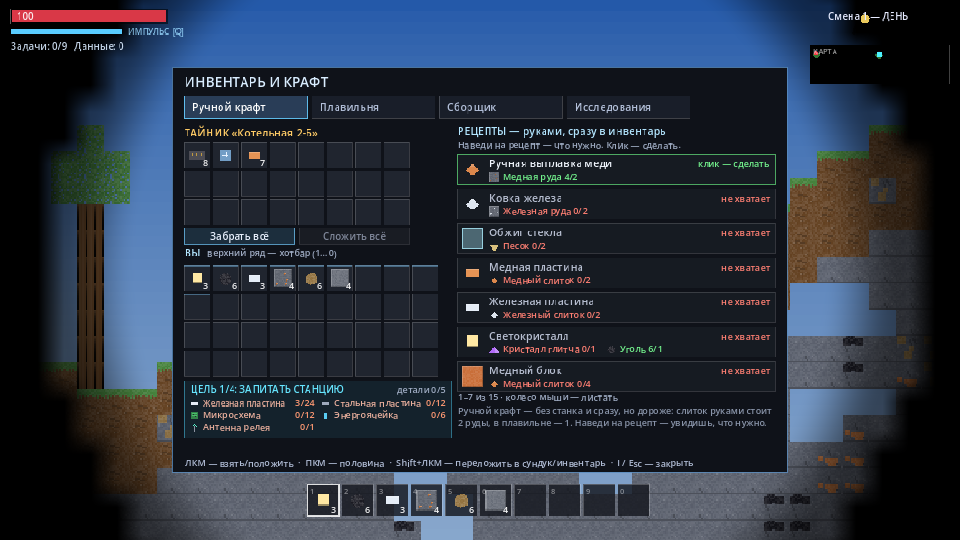
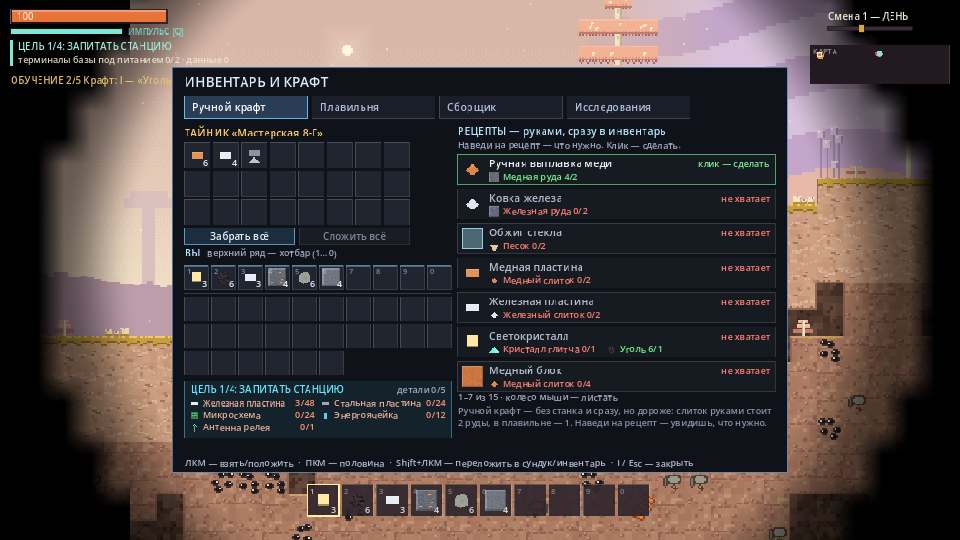
Телефон: кнопка переклички G в сети; инвентарь: верхний ряд — 10 ячеек хотбара (#135)
TouchControls: кнопка G только в сети с товарищами, ввод — тем же швом touch_input;
правая колонка встаёт под плашку команды (HUD.team_plate_rect), Q, V и G — одним рядом.
InventoryPanel: сетка 10 колонок (шаг 36), хотбар — верхний ряд с номерами клавиш,
рюкзак ниже за чертой. Проверки: touch_controls (в одиночной G нет), mp_doppel (Борис
начинает перекличку тапом по G). Скриншоты: touch_controls (сеть), inventory_after_*.

diff --git a/tools/README_TESTS.md b/tools/README_TESTS.md
@@ -431,10 +431,13 @@ godot --headless --path . --script res://tools/save_test.gd
   тап по пустой клетке ничего не ставит, долгий (≥ 0,4 с) — ставит камень; режим «строить» —
   короткий тап ставит; I/J открывают и закрывают окна, тап по миру при открытом окне не
   копает, тап по ячейке инвентаря (ЛКМ с `device` эмуляции) берёт стопку в руку и кладёт
-  обратно, палец листает рецепты. В конце мышь отпущена, шов пуст.
+  обратно, палец листает рецепты. В одиночной игре кнопки переклички G нет (#135): не жмётся,
+  колонка под миникартой на прежнем месте. В конце мышь отпущена, шов пуст.
+  В сети кнопку G проверяет `mp_doppel`: Борис (c1) начинает перекличку тапом по G.
 
-Скриншот раскладки (`docs/img/touch_controls.png`) — `tools/touch_shot.gd`, окно за экраном:
-`godot --path . --audio-driver Dummy --windowed --position -10000,-10000 --resolution 1280x720 --script res://tools/touch_shot.gd -- --touch --seed=31337`.
+Скриншот раскладки (`docs/img/touch_controls.png`) — `tools/touch_shot.gd`, окно за экраном;
+с `--net` — сетевая раскладка (сессия хоста на 127.0.0.1, три товарища-прокси, идёт перекличка):
+`godot --path . --audio-driver Dummy --windowed --position -10000,-10000 --resolution 1280x720 --script res://tools/touch_shot.gd -- --touch --net --seed=31337`.
 ### HUD и обучение (#34, ADR-001 § 4.1, 4.3, 4.7)
 
 Сценарии (`-- --scenario=hud_tracker,hud_tutorial,hud_hints,hud_no_alloc`), всё — по
@@ -748,7 +751,7 @@ godot --headless --path . -- --mp-scenario=all --seed=31337        # как в C
 | `mp_relay_coop` | MP-I (#94): у Ани половина `relay_req`, у Бориса остальное; Аня держит E у ядра — вклад из её инвентаря, у всех тот же `Game.relay_have` (`COOP RELAY`), отсчёт не пошёл; Борис доложил — отсчёт пошёл. Все дальше 12 клеток от ядра — отсчёт стоит (не сброшен) у хоста и клиентов, «Сигнал без присмотра»; Борис вернулся — идёт |
 | `mp_save_rejoin` | MP-I (#94): хост + 3 клиента, у каждого своё место, HP, метка; F5 хоста — файл версии 2 (`session`, `players` по uid — все 4, раздел `player`); у клиента F5 — «сохраняет хост», F9 в сети выключена у всех; все вышли — герои в `Net.parked`; `Save.load_net` — в парковке герои из файла; Аня входит снова — место, HP и метка из сохранения, стартового набора второй раз нет. Замер: размер сохранения с 4 игроками, КБ; сохранение и загрузка в сети, мс |
 | `mp_disconnect` | MP-I (#94): процесс Ани убит (обрыв) — по таймауту ENet прокси убран, герой в `Net.parked` (место, HP, инвентарь), мешка нет, жив; тот же uid вернулся — всё как было у хоста и у клиента (OWN, INV, поправка). Замер: обрыв замечен через, с. Повторный вход — тот же клиент запускается ещё раз (`mp_coop_base.gd`, флаг `--mp94-rejoin`) |
-| `mp_doppel` | MP-J (#95): хост + 3 клиента (4 игрока, один двойник). Аня (c0) отбилась на 40 клеток, хост, Борис, Вера — у базы. Хост: жертва двойника — самый отбившийся (Аня), маска — товарищ дальше всех от неё (Борис): ник и `Look` у двойника, над ним тот же `NickTag`; у клиентов — марионетка двойника с ником и видом Бориса (`TEAM.MASK`). Миникарта у каждого: маячок товарища ровно по правилу § 4.7 (≤ 20 клеток или зона питания), двойника на карте нет. Перекличка: Борис жмёт G (шов прокси) — у всех «Борис: перекличка!», кулдаун 20 с; хост, Аня, Вера отвечают G — огоньки всех героев зелёные (свой — событием, товарищи — `PF_ROLLCALL`), у двойника в маске Бориса — красный; повтор G после переклички — «Перекличка — через N с». Удар по своему (клиент → хост, хост → клиент): урона нет, «клац» в точке, кулдаун удара 1 с. Аня бьёт двойника: урон, «глюк» 1.5 с у хоста и клиентов (`TEAM.REVEAL`), всплеск `GlitchFx` у Ани. Замер (Вера): HUD мкс/кадр с разделом команды и без него, узлы и объекты за 10 с |
+| `mp_doppel` | MP-J (#95): хост + 3 клиента (4 игрока, один двойник). Аня (c0) отбилась на 40 клеток, хост, Борис, Вера — у базы. Хост: жертва двойника — самый отбившийся (Аня), маска — товарищ дальше всех от неё (Борис): ник и `Look` у двойника, над ним тот же `NickTag`; у клиентов — марионетка двойника с ником и видом Бориса (`TEAM.MASK`). Миникарта у каждого: маячок товарища ровно по правилу § 4.7 (≤ 20 клеток или зона питания), двойника на карте нет. Перекличка: Борис тапает G на сенсорной раскладке (#135: касание → `TouchControls` → шов → счётчик нажатий пакета ввода; кнопка G в ряду Q/V, кнопки не налезают на миникарту и плашку команды) — у всех «Борис: перекличка!», кулдаун 20 с; хост, Аня, Вера отвечают G — огоньки всех героев зелёные (свой — событием, товарищи — `PF_ROLLCALL`), у двойника в маске Бориса — красный; повтор G после переклички — «Перекличка — через N с». Удар по своему (клиент → хост, хост → клиент): урона нет, «клац» в точке, кулдаун удара 1 с. Аня бьёт двойника: урон, «глюк» 1.5 с у хоста и клиентов (`TEAM.REVEAL`), всплеск `GlitchFx` у Ани. Замер (Вера): HUD мкс/кадр с разделом команды и без него, узлы и объекты за 10 с |
 
 Обмен данными между процессами сценария (план, траектории для замера) — файлы
 `user://mp_share/<порт>_<ключ>.bin` (`mp/scenarios/mp_players_base.gd`), хост стирает их

diff --git a/README.md b/README.md
@@ -176,7 +176,7 @@ godot --headless --path C:\PROJECT\GODOTTEST -- --test --seed=12345
 мышь жмёт кнопки как палец, а клавиатура и мышь работают как обычно:
 `godot --path . -- --touch`.
 
-![Раскладка сенсорного управления, 1280×720](docs/img/touch_controls.png)
+![Раскладка сенсорного управления в сетевой игре, 1280×720: плашка команды под миникартой, кнопка G](docs/img/touch_controls.png)
 
 | Касание | Действие |
 |---|---|
@@ -185,6 +185,7 @@ godot --headless --path C:\PROJECT\GODOTTEST -- --test --seed=12345
 | **» бег** | бег вкл/выкл (защёлка — не надо держать вместе с джойстиком) |
 | **E** (удерживать) | взаимодействие — то же, что клавиша E |
 | **Q / V** | импульс / вентиляция; кольцо на Q — перезарядка |
+| **G** (только в сети, если есть товарищи) | перекличка: начать или ответить — то же, что клавиша G; пока идёт перекличка, кнопка подсвечена. Правая колонка тогда встаёт под плашку команды, а Q, V и G — одним рядом |
 | **I / J** | инвентарь / журнал; при открытом окне видны только они — тап по ним закрывает |
 | **тап по миру** | копать / бить фантома; держать палец — копать дальше |
 | **долгий тап** (≥ 0,4 с) по пустой клетке | поставить выбранный предмет из хотбара (по конвейеру — повернуть) |
@@ -337,8 +338,8 @@ godot --headless --path C:\PROJECT\GODOTTEST -- --test --seed=12345
 #### Окно инвентаря
 
 **I / TAB** — инвентарь и крафт, **E** у сундука или тайника руины — то же окно с сундуком
-сверху (в заголовке — имя тайника). Слева сундук, под ним твой инвентарь (верхний ряд —
-хотбар 1…0) и цель «Релей-ядро»: иконка, название и «есть/нужно» по каждой детали.
+сверху (в заголовке — имя тайника). Слева сундук, под ним твой инвентарь (верхний ряд из
+10 ячеек — хотбар 1…0, с номерами клавиш; ниже, за чертой, — рюкзак) и цель «Релей-ядро»: иконка, название и «есть/нужно» по каждой детали.
 
 * **ЛКМ** — взять стопку «в руку» (она рисуется у курсора с количеством) и положить в
   другую ячейку; **ПКМ** — взять половину или положить по одному.
